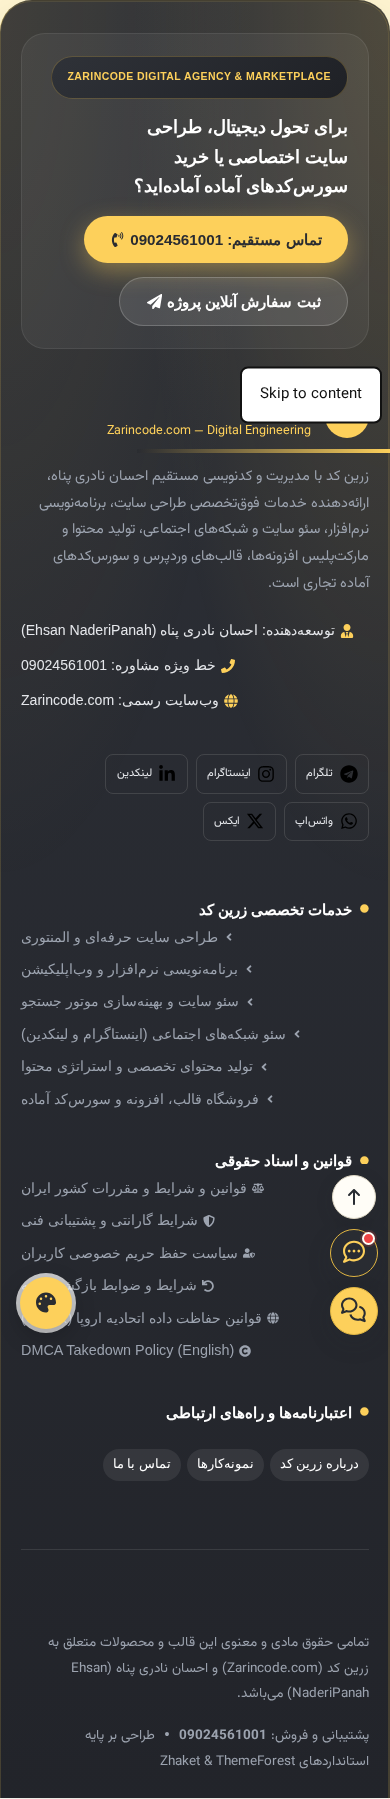
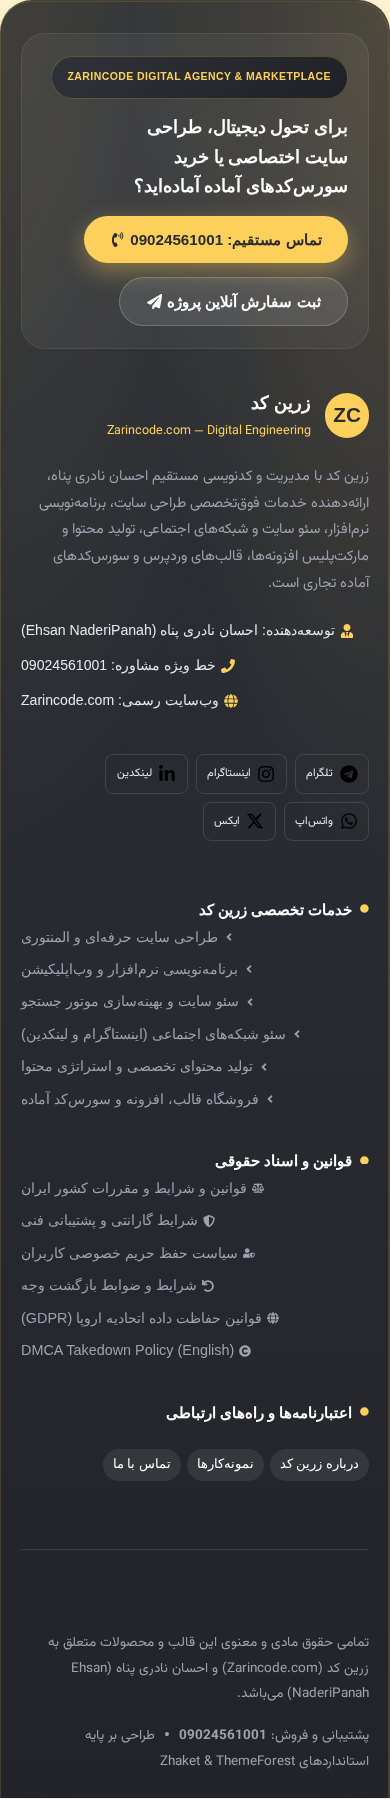
docs(audit): clean footer screenshots (floating chat/dock hidden) + record the continuation request

Changed region(s): [[0.6154, 0.1868, 0.9846, 0.249], [0.8308, 0.6537, 0.9846, 0.7471], [0.0308, 0.6848, 0.2154, 0.7471]]

diff --git a/docs/prompts/USER-REQUESTS.md b/docs/prompts/USER-REQUESTS.md
@@ -204,3 +204,11 @@
 > «الان طرح فوتر خوب شد ولی حتما باید به شکل همون باکس خودش باشه و حتما نیاز دارم که با المنتور فوتر رو به صورت کامل بتونم ویرایش کنم؛ تمام فوتر باید با ویجت های المنتوری ساخته بشه نه یک تکه، این مسئله رو خیلی دقیق باید کدنویسی کنی. در مورد اینکه وبسایت رو خیلی کامل و دقیق با المنتور کدنویسی کنی؛ تحقیق کن و تمام الزامات و استاندارد ها رو رعایت کن».
 
 اجرا (۴.۱۳.۰): درخت فوتر به **۱۷ کانتینر + ۲۳ ویجت استاندارد** (۷ هدینگ، ۵ دکمه، ۴ تکستادیتور، ۳ آیکونلیست، ۳ آیکون، ۱ ویجت شبکههای اجتماعی) در ۵ سطح بازنویسی شد؛ هیچ HTML خام/شورتکد/تکهٔ یکپارچه باقی نمانده. سه علت واقعی انحراف اندازه (پدینگ پیشفرض ۱۰px کانتینر تودرتو، مارجین `<p>` تکستادیتور، نسبتهای flex قدیمی) در خودِ دادهٔ المنتور اصلاح شد، نه با CSS. استانداردهای تحقیقشده در `docs/standards/elementor-footer-architecture.md` ثبت شد و شواهد اندازهگیری در `docs/audits/2026-10-21-footer-4.13.0/` است.
+
+## ۲۰۲۶-۱۰-۲۱ — «کدنویسی رو ادامه بده» (ادامهٔ الزام «همهچیز با ویجتهای المنتور»)
+
+ادامهٔ همان دستور «تمام فوتر باید با ویجتهای المنتوری ساخته بشه نه یک تکه» اینبار روی **کل سایت** اعمال شد:
+
+1. **صفحات دمو**: نسلکنندهٔ صفحات بهجای Section/Column قدیمی، **Flexbox Container** مینویسد (`elType: container`، `content_width: full`، پدینگ صفر، عنوان فارسی برای نویگیتور از `get_title()` خود ویجت). خروجی: صفحهٔ اصلی از ۱۱ سکشن به ۱۱ کانتینر تبدیل شد، ظاهر پیکسلبهپیکسل ثابت ماند (اسکرینشات تمامصفحه قبل/بعد یکسان، جز نوار متحرک برندها).
+2. **باگ کشفشده در نصب تازه**: حالت «coming soon» ووکامرس بعد از ایمپورت دمو ساخته میشود، پس شرطِ محافظدار هرگز اجرا نمیشد و کل سایت (از جمله صفحهٔ اصلی المنتور) صفحهٔ جانشین ووکامرس را نشان میداد. اصلاح: نوشتن قطعی `woocommerce_coming_soon = no` + پاککردن ترنزینت.
+3. **بازآزمایی روی نصب تازه** (WP 7.1.4 + Elementor 4.4.0 + WooCommerce 11.3.0-rc.1): ۱۲ آدرس دمو همه ۲۰۰، بدون خطای لاگ (فقط دیپرکیشن `WP\MCP` خودِ وردپرس)، بدون سرریز افقی در ۳۹۰/۷۶۸/۱۰۲۴/۱۴۴۰، ادیتور فوتر در ۶٫۹ ثانیه باز میشود و ۴۱ آیتم در نویگیتور دارد، انتخاب تیتر CTA در بوم پنل هدینگ را باز میکند.
